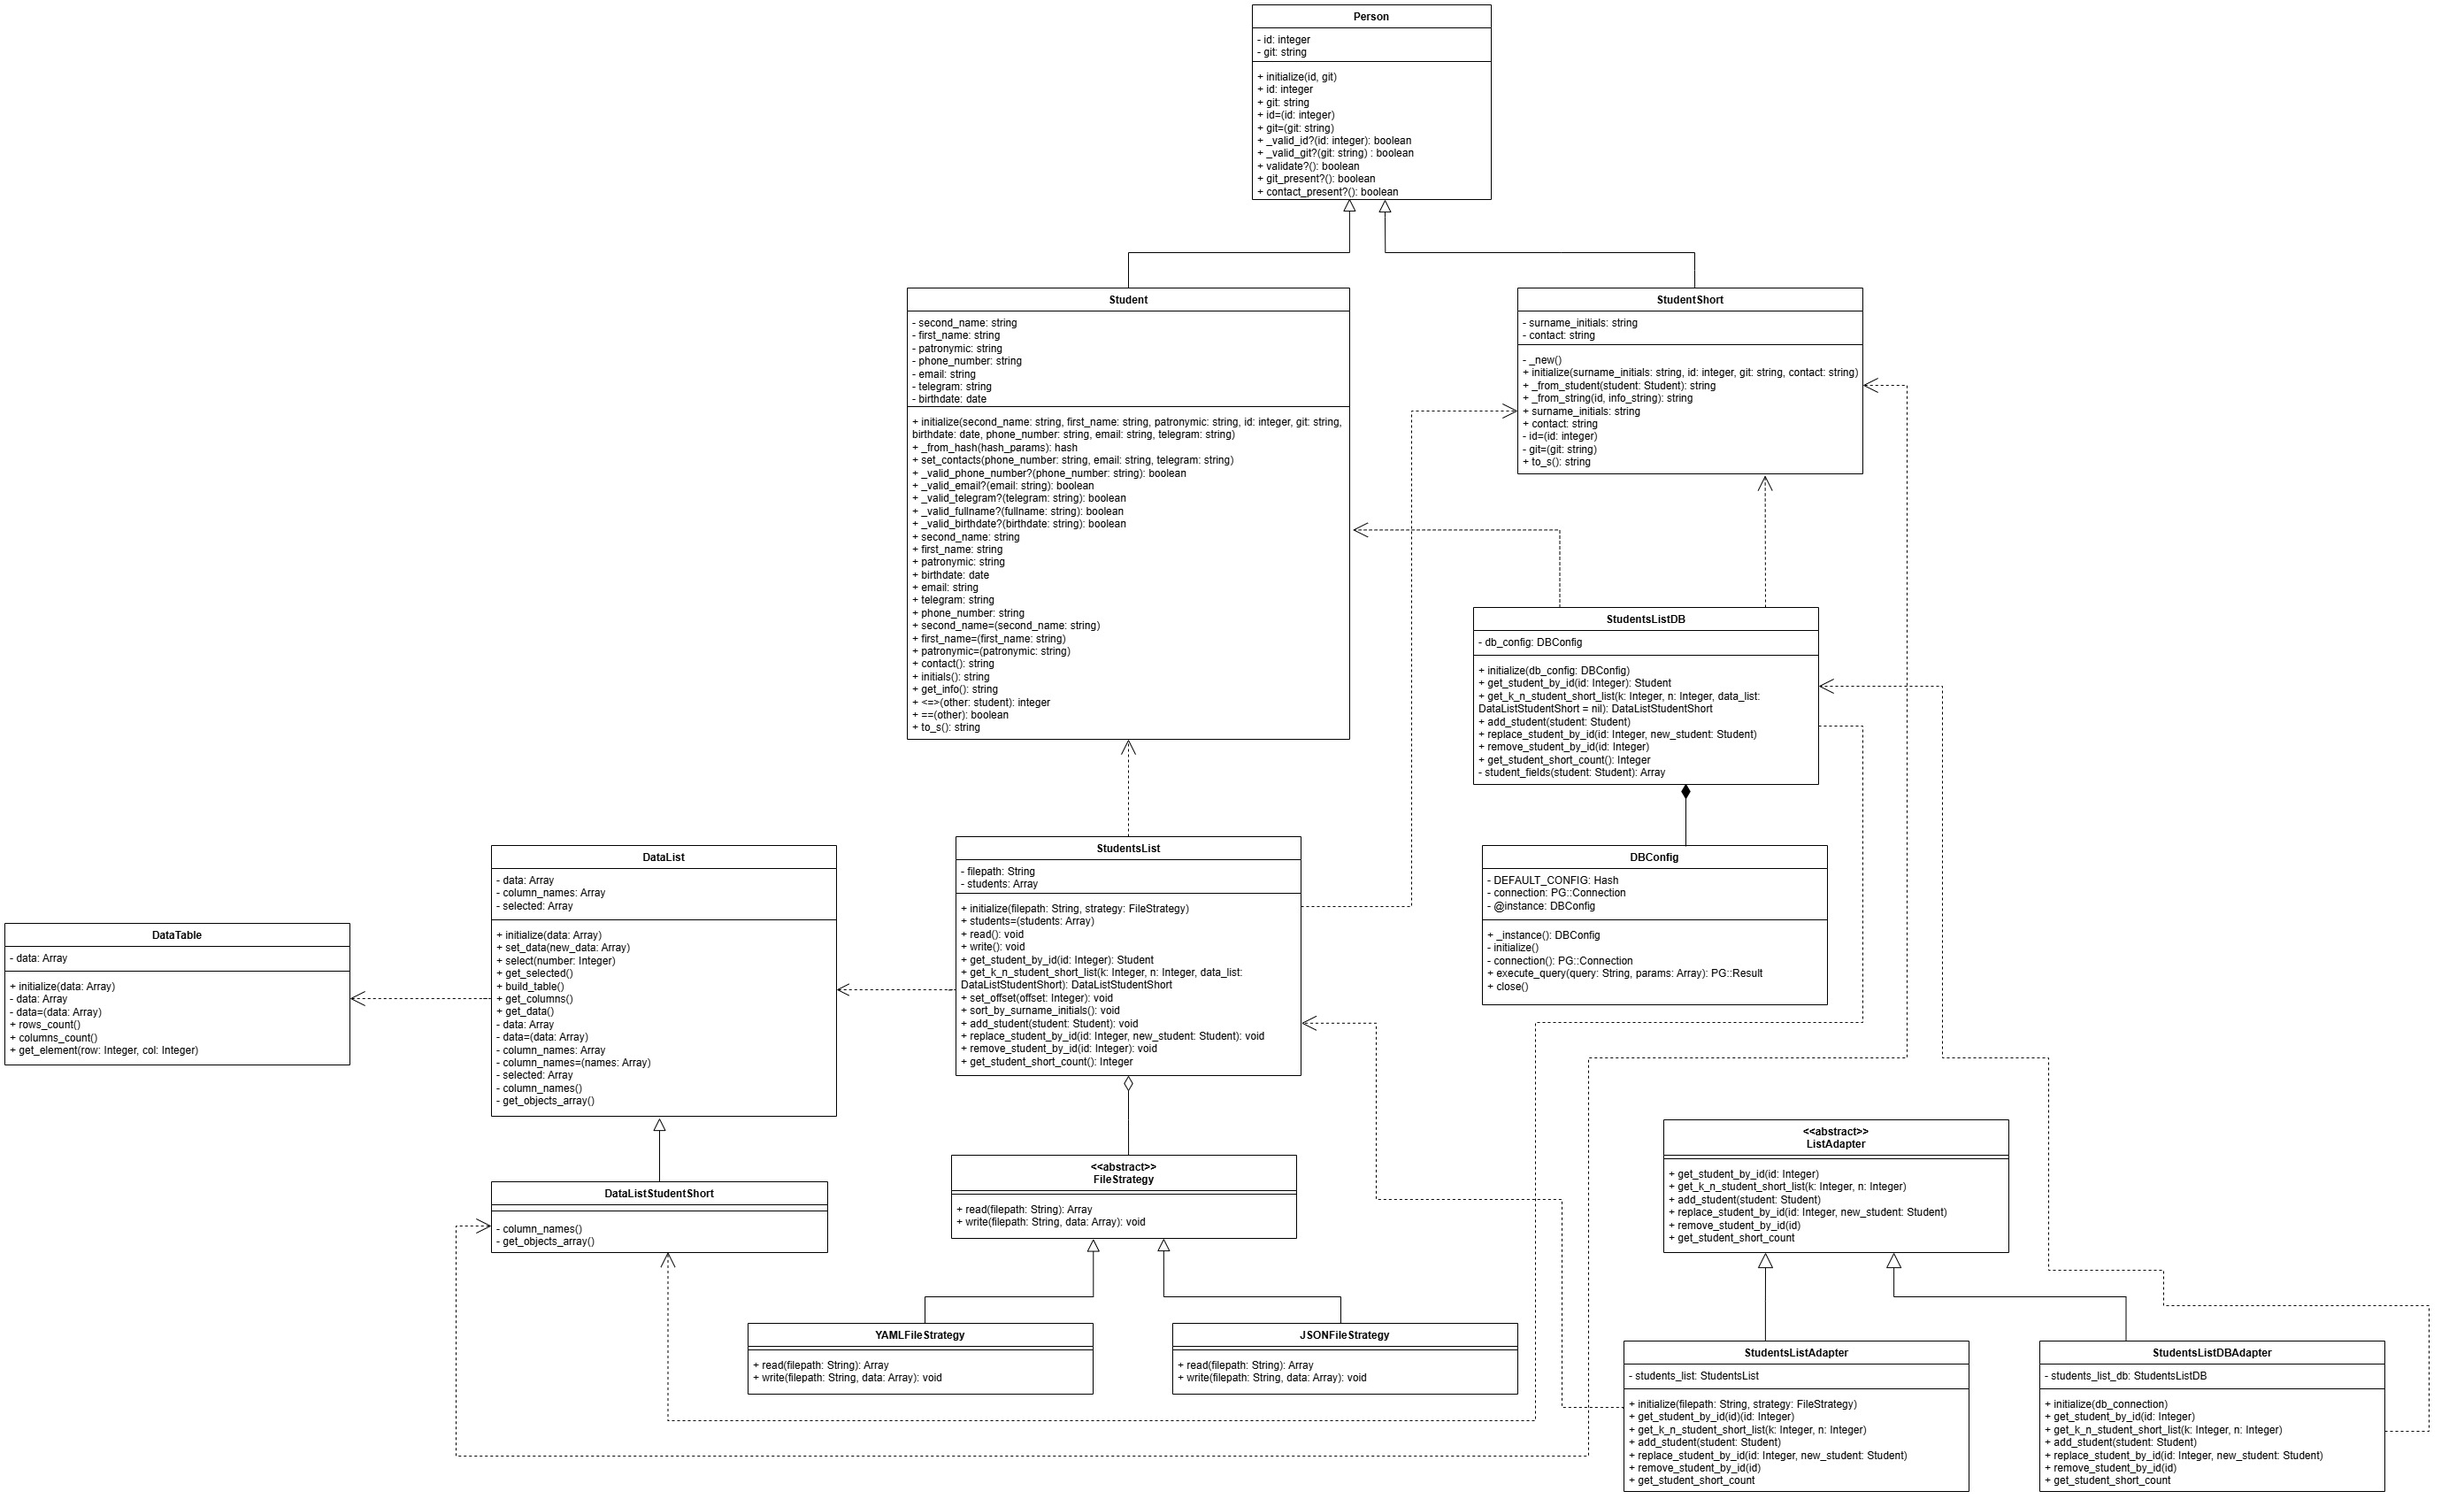
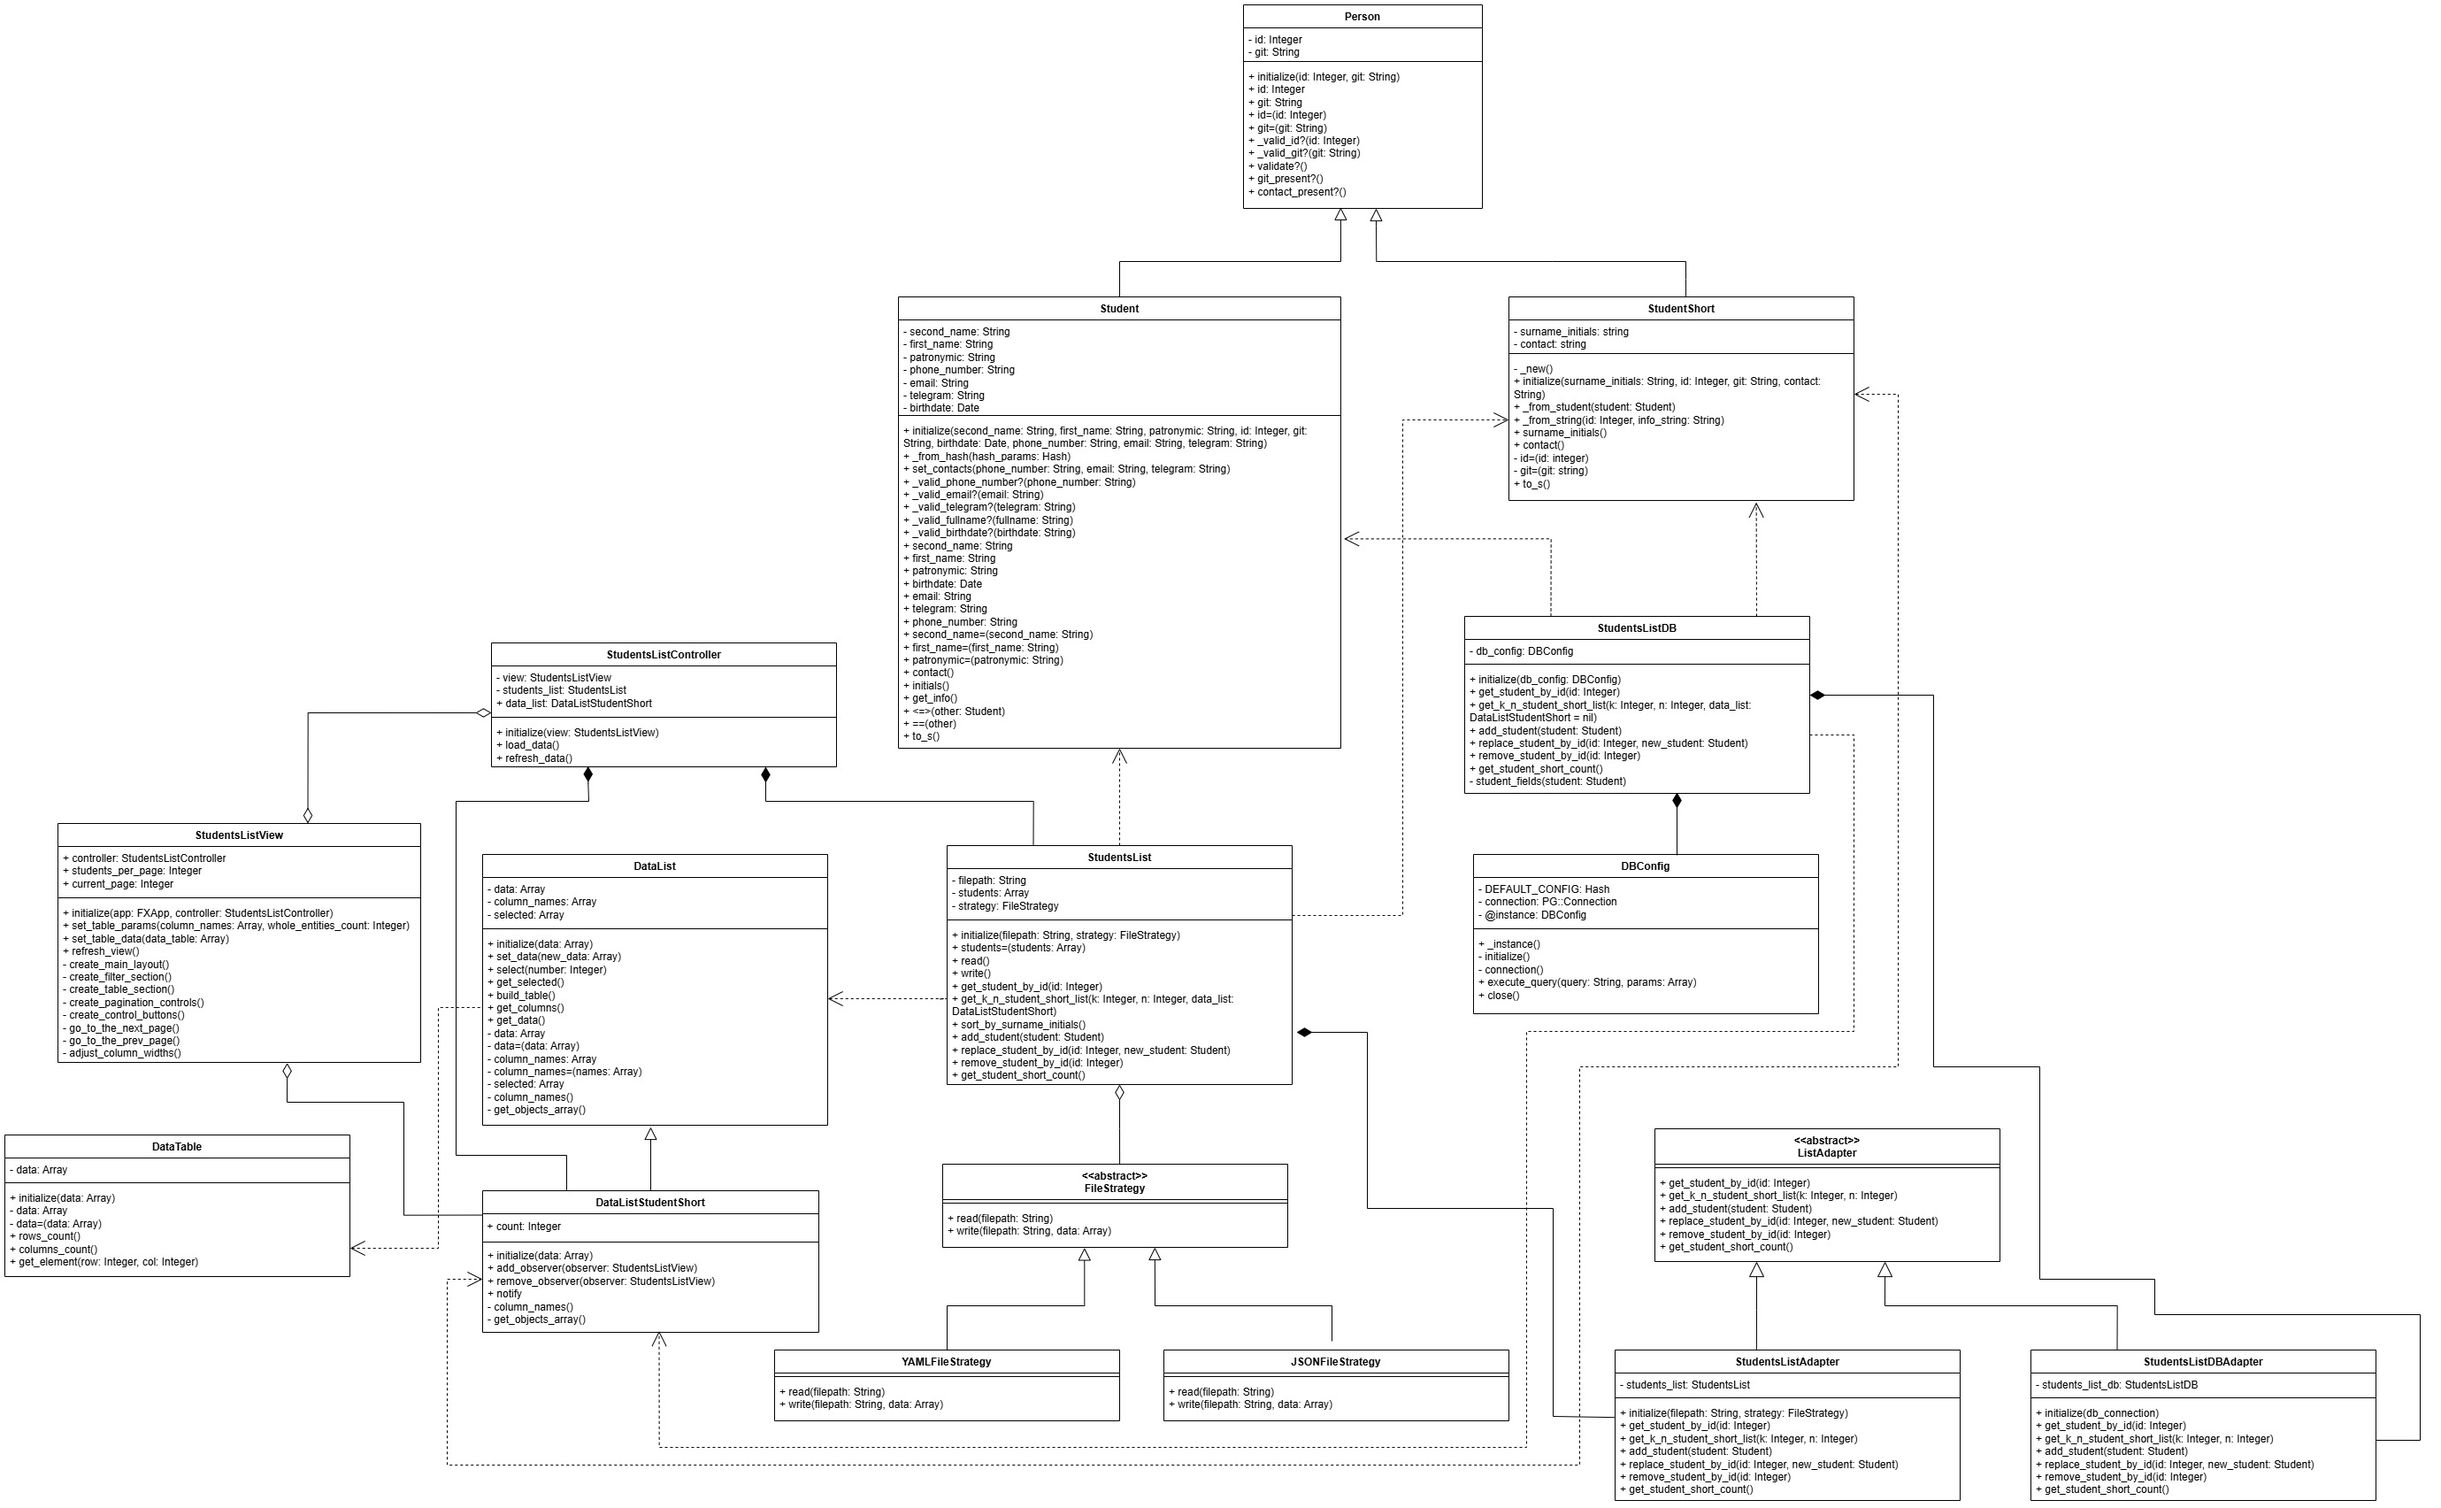
Lab5: class diagram (+code fixes)

diff --git a/student/students_mvc/students_list_view.rb b/student/students_mvc/students_list_view.rb
@@ -103,6 +103,15 @@ class StudentsListView < FXMainWindow
     	@prev_button.connect(SEL_COMMAND) { go_to_the_prev_page }
     	@next_button.connect(SEL_COMMAND) { go_to_the_next_page }
   	end
+  	
+  	def create_control_buttons
+    	control_frame = FXHorizontalFrame.new(@student_list_view, opts: LAYOUT_FILL_X)
+
+    	@add_button = FXButton.new(control_frame, "Добавить", opts: BUTTON_NORMAL)
+    	@edit_button = FXButton.new(control_frame, "Изменить", opts: BUTTON_NORMAL)
+    	@delete_button = FXButton.new(control_frame, "Удалить", opts: BUTTON_NORMAL)
+    	@update_button = FXButton.new(control_frame, "Обновить", opts: BUTTON_NORMAL).connect(SEL_COMMAND) { refresh_view }
+  	end
 
   	def go_to_the_next_page
   		if @current_page < @total_pages
@@ -131,13 +140,4 @@ class StudentsListView < FXMainWindow
 	        @table.setColumnWidth(col, max_width)
 	    end
 	end
-
-  	def create_control_buttons
-    	control_frame = FXHorizontalFrame.new(@student_list_view, opts: LAYOUT_FILL_X)
-
-    	@add_button = FXButton.new(control_frame, "Добавить", opts: BUTTON_NORMAL)
-    	@edit_button = FXButton.new(control_frame, "Изменить", opts: BUTTON_NORMAL)
-    	@delete_button = FXButton.new(control_frame, "Удалить", opts: BUTTON_NORMAL)
-    	@update_button = FXButton.new(control_frame, "Обновить", opts: BUTTON_NORMAL).connect(SEL_COMMAND) { refresh_view }
-  	end
 end

diff --git a/student/lib/data_list_student_short.rb b/student/lib/data_list_student_short.rb
@@ -20,7 +20,7 @@ class DataListStudentShort < DataList
     def notify
         @observers.each do |observer|
           observer.set_table_params(column_names, @count)
-          observer.set_table_data(get_data)
+          observer.set_table_data(get_objects_array)
         end
     end
   	
